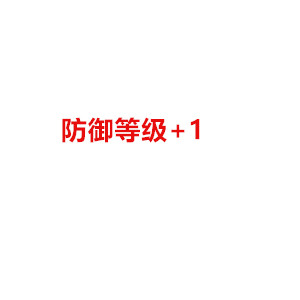
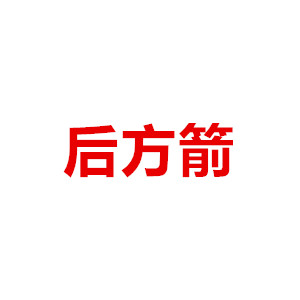
技能图片添加

Changed region(s): [[0.18, 0.39, 0.78, 0.6]]

diff --git a/src/weapon/RotaryDarts.ts b/src/weapon/RotaryDarts.ts
@@ -51,10 +51,10 @@ class RotaryDarts extends Weapon {
         this.range = (this.level - 1) * 20 + 200;
     }
 
-    public enableSkill(skillType: ShotgunSkillType) {
+    public enableSkill(skillType:Rotary_dartsSkillType) {
         super.enableSkill(skillType);
         switch (skillType) {
-            case ShotgunSkillType.AttackTypeIntensive:
+            case Rotary_dartsSkillType.AttackTypeIntensive:
                 this.upLevel();
                 break;
         }
@@ -63,7 +63,7 @@ class RotaryDarts extends Weapon {
     public getSkills(): Array<Skill> {
         let arr = new Array<Skill>();
         if (this.level < RotaryDarts.levelMax) {
-            let skill = new Skill(WeaponType.ROTARY_DARTS, ShotgunSkillType.AttackTypeIntensive);
+            let skill = new Skill(WeaponType.ROTARY_DARTS, Rotary_dartsSkillType.AttackTypeIntensive);
             arr.push(skill);
         }
         return arr;

diff --git a/src/weapon/GrenadeBag.ts b/src/weapon/GrenadeBag.ts
@@ -85,6 +85,17 @@ class GrenadeBag extends Weapon
         return true;
     }
 
+    public enableSkill(skillType:GrenadebagSkillType) 
+    {
+        super.enableSkill(skillType);
+        switch(skillType)
+        {
+            case GrenadebagSkillType.AttackTypeIntensive:
+                this.upLevel();
+                break;
+        }
+    }
+
     public upLevel()
     {
         super.upLevel();
@@ -107,9 +118,11 @@ class GrenadeBag extends Weapon
     public getSkills(): Array<Skill>
     {
         let arr = new Array<Skill>();
-
-
-        
+        if(this.level < GrenadeBag.MAX_LEVEL)
+        {
+            let skill = new Skill(WeaponType.GRENADEBAG,GrenadebagSkillType.AttackTypeIntensive);
+            arr.push(skill);
+        }
         return arr;
     }
 }

diff --git a/src/component/SkillComponent.ts b/src/component/SkillComponent.ts
@@ -27,9 +27,16 @@ class SkillComponent extends eui.Component
 
     public init()
     {
-        let index1 = this.skillType as number;
-        let index2 = this.skill;
-        this.bg.source = "skill_"+index1 +"_" +index2+"_jpg";
+        if(this.skillType == WeaponType.NONE)
+        {
+            //通用技能skillCommom_9_jpg
+            this.bg.source = "skillCommom_"+this.skill+"_jpg";
+        }
+        else
+        {
+            //武器技能
+            this.bg.source = "skill_"+ this.skillType + "_" + this.skill +"_jpg";
+        }
         this.addEventListener(egret.TouchEvent.TOUCH_TAP, this.onBtnClick, this);
     }
 

diff --git a/src/base/Enums.ts b/src/base/Enums.ts
@@ -40,11 +40,26 @@ enum WeaponType
     BOW = 0,//弓箭
     SHOTGUN = 1,//散弹枪
     ROTARY_DARTS = 2,//旋转镖
-   GRENADEBAG=3,
+    GRENADEBAG = 3,//雷包手
     MAX_COUNT//最大数
  
 }
 
+////雷包手
+enum GrenadebagSkillType
+{
+    NONE,
+    AttackTypeIntensive,//攻击方式强化
+}
+
+//旋转镖
+enum Rotary_dartsSkillType
+{
+    NONE,
+    AttackTypeIntensive,//攻击方式强化
+}
+
+//弓箭
 enum BowSkillType
 {
     NONE,
@@ -53,6 +68,7 @@ enum BowSkillType
     BackAttack,//后放箭
 }
 
+//散弹枪
 enum ShotgunSkillType
 {
     NONE,
